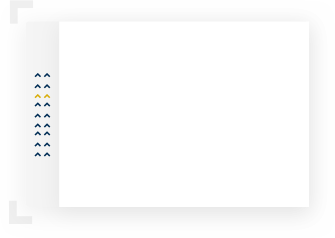
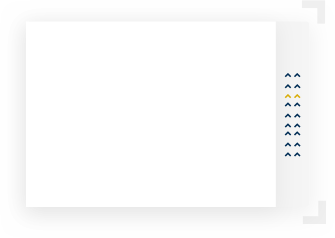
adding responsive opinion community

diff --git a/app/styles/community-opnion-container.scss b/app/styles/community-opnion-container.scss
@@ -343,15 +343,13 @@
        align-content: center;
        background: #f7f7f7;  
        display: block;
-       padding-top: 25%;
-       padding-bottom: 8%;
-       margin-bottom: -10%;
+       padding-top: 45%;
+       padding-bottom: 15%;
 
 
      .community-opnion-intro {
-       
-
-        height: 25vw;
+      
+        height: auto;
         width: 100%;
         margin-top: 5vw;
         display: flex;
@@ -362,10 +360,12 @@
         z-index: 0;
 
          .membership-main-description {
-           height: 25vw;
-           width: 30vw;
-           margin-top: 9%;
-           left: 38%;
+           height: 63.5vw;
+           width: 85vw;
+           left: auto;
+           right: auto;
+           bottom: -75%;
+           margin-left:7%; 
            z-index:5;
            overflow: visible;
            position: absolute;
@@ -375,60 +375,63 @@
            
            h1 {
             font-family: 'aleo-regular-webfont';
-            font-size: 0.8vw;
+            font-size: 3.6vw;
             color: black;
             text-align: justify;
-            margin-top: 2%;
-            margin-left: 14%;
-            margin-right: 22%;
+            padding-top: 2%;
+            padding-left: 14%;
+            padding-right: 22%;
+            line-height: 4.5vw;
           }
           h2 {
             font-family: 'BebasNeue-Thin';
-            font-size: 1.2vw;
+            font-size: 5vw;
             color: black;
             text-align: justify;
-            margin-top: -2%;
-            margin-left: 14%;
-            margin-right: 22%;
+            padding-top: -2%;
+            padding-left: 14%;
+            padding-right: 22%;
           }
 
           h3 {
             font-family: 'BebasNeue-Bold';
-            font-size: 1.3vw;
+            font-size: 5.5vw;
             color: black;
             text-align: justify;
-            margin-top: 10%;
-            margin-left: 14%;
-            margin-right: 22%;
+            padding-top: 12%;
+            padding-left: 14%;
+            padding-right: 22%;
           }
          }
 
        .membership-main-picture {
-           height: 26vw;
-           width: 26vw;
+           height: 70vw;
+           width: 70vw;
            overflow: visible;
-           margin-right: 45%;
+           margin-right: auto;
+           margin-left: auto;
            z-index:2;
            content:url(/assets/images/knowledge-picture.png);
        }
 
        .membership-detail-main-picture {
-           height: 8vw;
-           width: 8vw;
+           height: 19vw;
+           width: 20vw;
            overflow: visible;
            z-index:99;
-           margin-right: -29%;
-           margin-top: -3.6%;
            content:url(/assets/images/rectangle-opinion-left.png);
+           position: absolute;
+           left: 5%;
+           top: -13%;
        }
      }
 
        .community-opinion-second-intro {
        
-       background: #f7f7f7;
+        //background: #f7f7f7;
         height: auto;
         width: 100%;
-        margin-top: 10vw;
+        padding-top: 80vw;
         display: flex;
         flex-flow: row nowrap;
         justify-content: space-around;
@@ -437,65 +440,73 @@
         z-index: 1;
 
          .community-opinion-second-main-description {
-           height: 25vw;
-           width: 30vw;
+           
+           height: 63.5vw;
+           width: 85vw;
            top: 22%;
-           left: 34%;
-           z-index:-1;
+           left: auto;
+           right: auto;
+           padding-bottom: -200%;
+           margin-top: 100%;
+           margin-left:-7%; 
+
            overflow: visible;
            position: absolute;
-           background-image:url(/assets/images/community_description_second_opinion_container.png);
+           background-image:url(/assets/images/community_description_second_opinion_container_responsive.png);
            background-size: 100%;
            background-repeat: no-repeat;
 
            h1 {
             font-family: 'aleo-regular-webfont';
-            font-size: 0.8vw;
+            font-size: 3.6vw;
             color: black;
             text-align: justify;
-            margin-top: 2%;
-            margin-left: 24%;
-            margin-right: 18%;
+            padding-top: 2%;
+            padding-left: 24%;
+            padding-right: 18%;
+            line-height: 4.5vw;
           }
           h2 {
             font-family: 'BebasNeue-Thin';
-            font-size: 1.2vw;
+            font-size: 5vw;
             color: black;
             text-align: justify;
-            margin-top: -2%;
-            margin-left: 24%;
-            margin-right: 18%;
+            padding-top: -2%;
+            padding-left: 24%;
+            padding-right: 18%;
           }
 
           h3 {
             font-family: 'BebasNeue-Bold';
-            font-size: 1.3vw;
+            font-size: 5.5vw;
             color: black;
             text-align: justify;
-            margin-top: 10%;
-            margin-left: 24%;
-            margin-right: 18%;
+            padding-top: 10%;
+            padding-left: 24%;
+            padding-right: 18%;
           }
 
          }
 
        .community-opinion-second-main-picture {
-           height: 26vw;
-           width: 26vw;
+           height: 70vw;
+           width: 70vw;
            overflow: visible;
-           margin-left: 50%;
+           margin-right: auto;
+           margin-left: auto;
            z-index:-1;
            margin-top: -8%;
            content:url(/assets/images/knowledge-picture.png);
        }
 
        .community-opinion-second-detail-main-picture {
-           height: 8vw;
-           width: 8vw;
+           height: 21vw;
+           width: 20vw;
            overflow: visible;
            z-index:99;
-           margin-left: -24.9%;
-           margin-top: -11.5%;
+           position: absolute;
+           right: 5%;
+           top: 44%;
            content:url(/assets/images/rectangle-opinion-right.png);
         } 
       }

diff --git a/app/styles/community-opnion-header-container.scss b/app/styles/community-opnion-header-container.scss
@@ -132,18 +132,18 @@
             height: 50%;
             width: auto;
             font-family: 'BebasNeue-Bold';
-            font-size: 6vw;
+            font-size: 8vw;
             color: #1C1C1C;
-            margin-left: -30%;
-            margin-right: 10%;
+            margin-left: -40%;
+            margin-right: 15%;
        }
 
        .title-image{
             position:relative;
             height: 200vw;
-            width: 30%;
-            margin-left: 35vw;
-            margin-top: 19%;
+            width: 33%;
+            margin-left: 40vw;
+            margin-top: 22%;
             background:url(/assets/images/image-title-opinion.png);
             background-size:40%; 
             background-repeat: no-repeat;

diff --git a/app/styles/bottom-bar.scss b/app/styles/bottom-bar.scss
@@ -252,15 +252,16 @@
 
   .bottom-opnion-container {       
       // display: block;
-       height: auto;
        display: block;
        
        z-index: 99;
        height: 200vw;
+       background: #f7f7f7;
+       //margin-top:45%; 
 
        .background-footer-left{
-              margin-top: 7vw;
-              margin-left: 3vw;
+              padding-top: 7vw;
+              padding-left: 3vw;
               position: flex;
               width: 50vw;
               height: 21vw;
